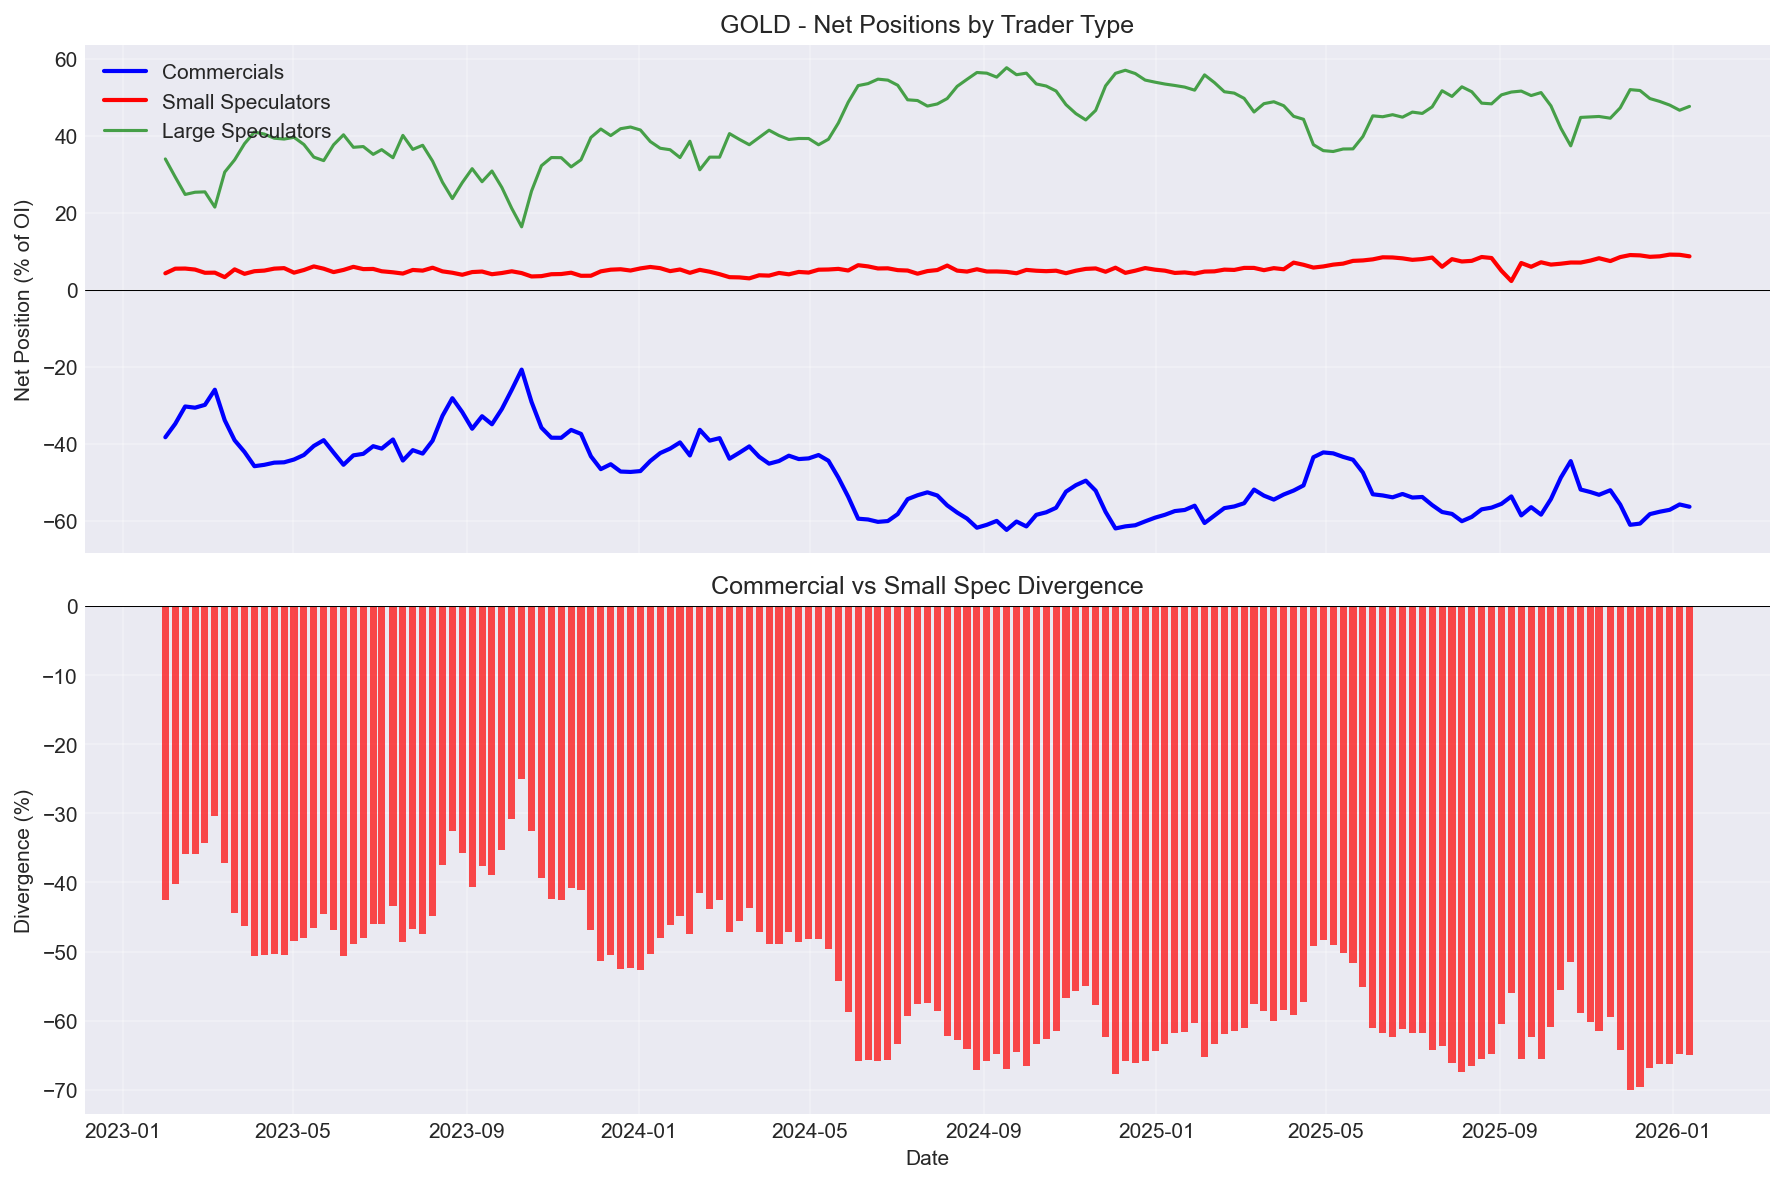
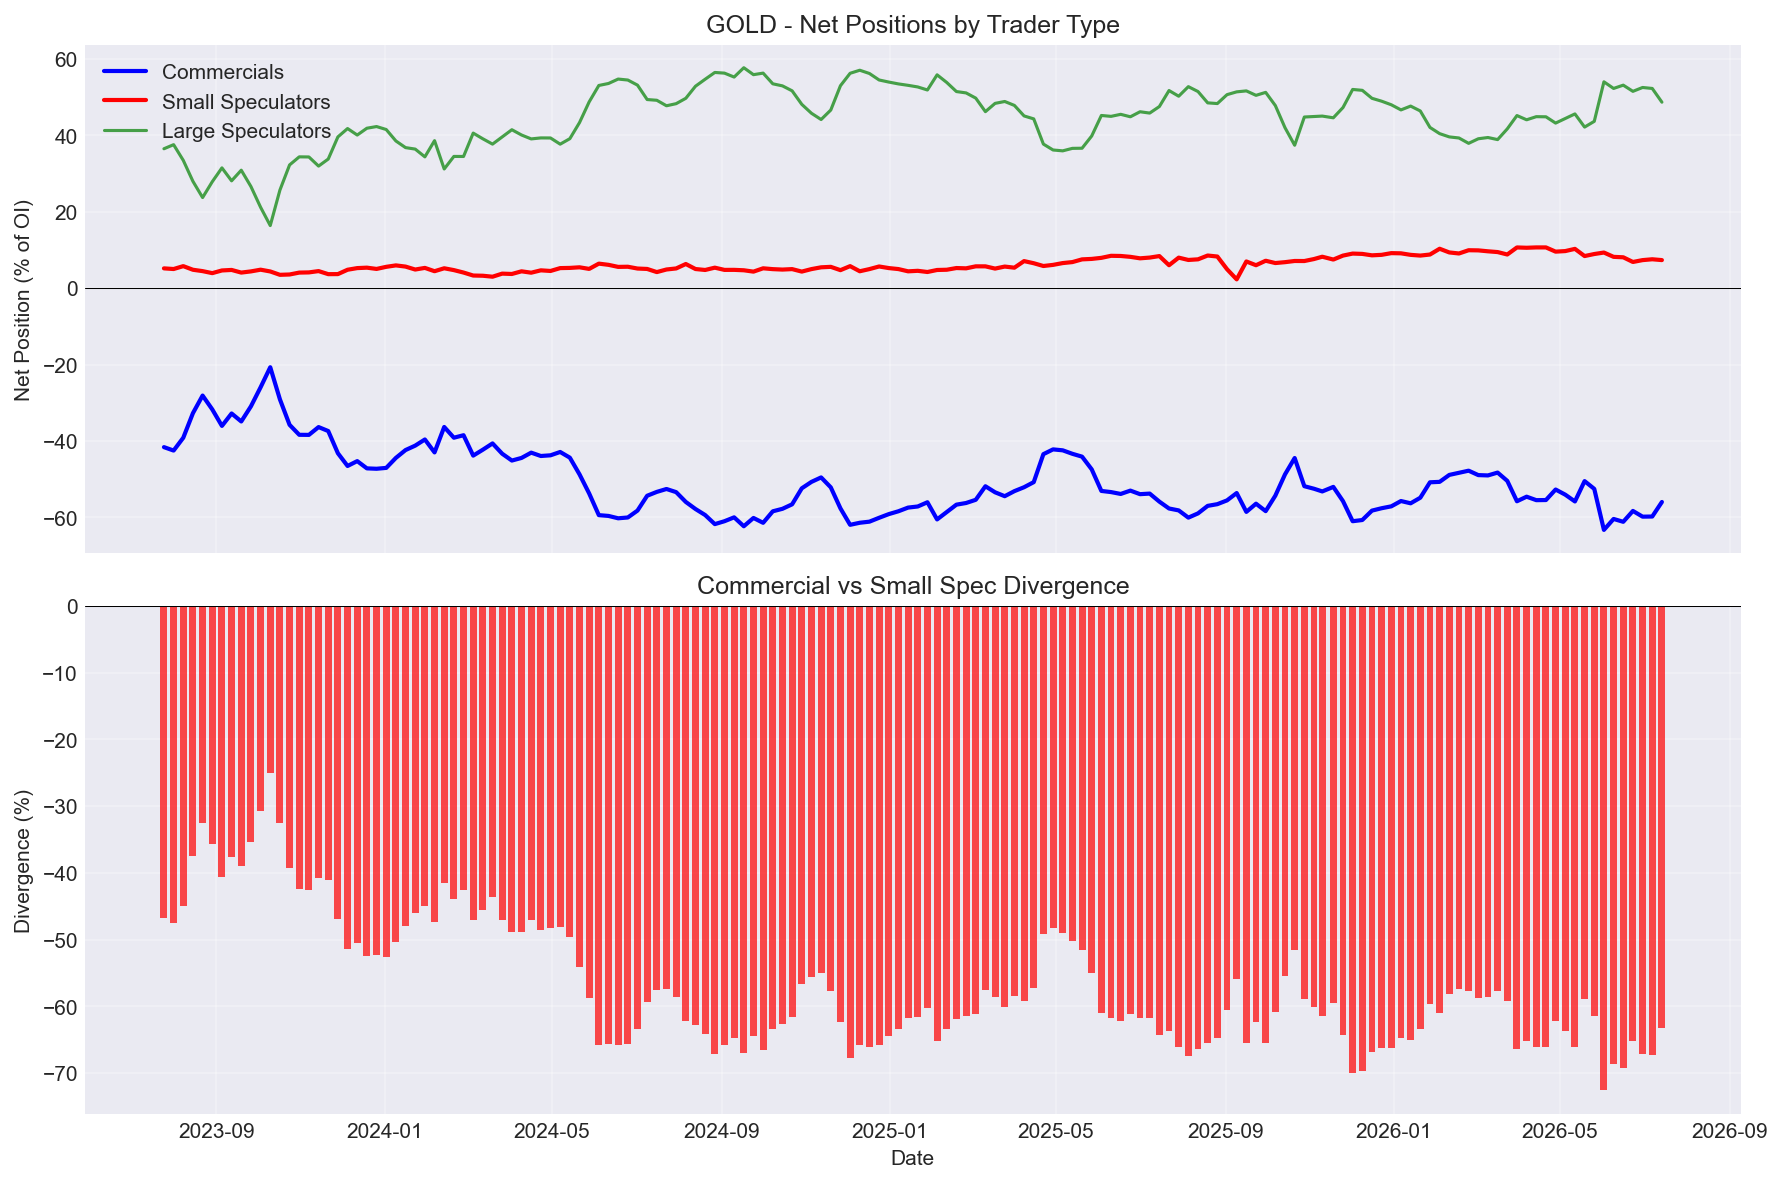
Update COT reports

diff --git a/reports/cotpy/index.html b/reports/cotpy/index.html
@@ -15,12 +15,46 @@
       <li><a href="positions.csv">positions.csv</a></li>
       <li><a href="signals.csv">signals.csv</a></li>
       <li><a href="market_summary.csv">market_summary.csv</a></li>
+      <li><a href="charts/10Y_NOTES_interactive.html">10Y_NOTES_interactive.html</a></li>
+      <li><a href="charts/10Y_NOTES_positions.png">10Y_NOTES_positions.png</a></li>
+      <li><a href="charts/COFFEE_interactive.html">COFFEE_interactive.html</a></li>
+      <li><a href="charts/COFFEE_positions.png">COFFEE_positions.png</a></li>
+      <li><a href="charts/COPPER_interactive.html">COPPER_interactive.html</a></li>
+      <li><a href="charts/COPPER_positions.png">COPPER_positions.png</a></li>
+      <li><a href="charts/CORN_interactive.html">CORN_interactive.html</a></li>
+      <li><a href="charts/CORN_positions.png">CORN_positions.png</a></li>
       <li><a href="charts/COTTON_interactive.html">COTTON_interactive.html</a></li>
       <li><a href="charts/COTTON_positions.png">COTTON_positions.png</a></li>
+      <li><a href="charts/CRUDE_OIL_interactive.html">CRUDE_OIL_interactive.html</a></li>
+      <li><a href="charts/CRUDE_OIL_positions.png">CRUDE_OIL_positions.png</a></li>
+      <li><a href="charts/EUR_USD_interactive.html">EUR_USD_interactive.html</a></li>
+      <li><a href="charts/EUR_USD_positions.png">EUR_USD_positions.png</a></li>
+      <li><a href="charts/GBP_USD_interactive.html">GBP_USD_interactive.html</a></li>
+      <li><a href="charts/GBP_USD_positions.png">GBP_USD_positions.png</a></li>
       <li><a href="charts/GOLD_interactive.html">GOLD_interactive.html</a></li>
       <li><a href="charts/GOLD_positions.png">GOLD_positions.png</a></li>
+      <li><a href="charts/NASDAQ_100_interactive.html">NASDAQ_100_interactive.html</a></li>
+      <li><a href="charts/NASDAQ_100_positions.png">NASDAQ_100_positions.png</a></li>
+      <li><a href="charts/NATURAL_GAS_interactive.html">NATURAL_GAS_interactive.html</a></li>
+      <li><a href="charts/NATURAL_GAS_positions.png">NATURAL_GAS_positions.png</a></li>
+      <li><a href="charts/S&P_500_interactive.html">S&P_500_interactive.html</a></li>
+      <li><a href="charts/S&P_500_positions.png">S&P_500_positions.png</a></li>
+      <li><a href="charts/SILVER_interactive.html">SILVER_interactive.html</a></li>
+      <li><a href="charts/SILVER_positions.png">SILVER_positions.png</a></li>
+      <li><a href="charts/SOYBEANS_interactive.html">SOYBEANS_interactive.html</a></li>
+      <li><a href="charts/SOYBEANS_positions.png">SOYBEANS_positions.png</a></li>
       <li><a href="charts/SUGAR_interactive.html">SUGAR_interactive.html</a></li>
+      <li><a href="charts/SUGAR_positions.png">SUGAR_positions.png</a></li>
+      <li><a href="charts/T-BONDS_interactive.html">T-BONDS_interactive.html</a></li>
+      <li><a href="charts/T-BONDS_positions.png">T-BONDS_positions.png</a></li>
+      <li><a href="charts/USD_JPY_interactive.html">USD_JPY_interactive.html</a></li>
+      <li><a href="charts/USD_JPY_positions.png">USD_JPY_positions.png</a></li>
+      <li><a href="charts/WHEAT_interactive.html">WHEAT_interactive.html</a></li>
+      <li><a href="charts/WHEAT_positions.png">WHEAT_positions.png</a></li>
       <li><a href="charts/dashboard.html">dashboard.html</a></li>
+      <li><a href="charts/divergence_heatmap.png">divergence_heatmap.png</a></li>
+      <li><a href="charts/market_comparison.html">market_comparison.html</a></li>
+      <li><a href="charts/signal_summary.png">signal_summary.png</a></li>
     </ul>
   </body>
 </html>